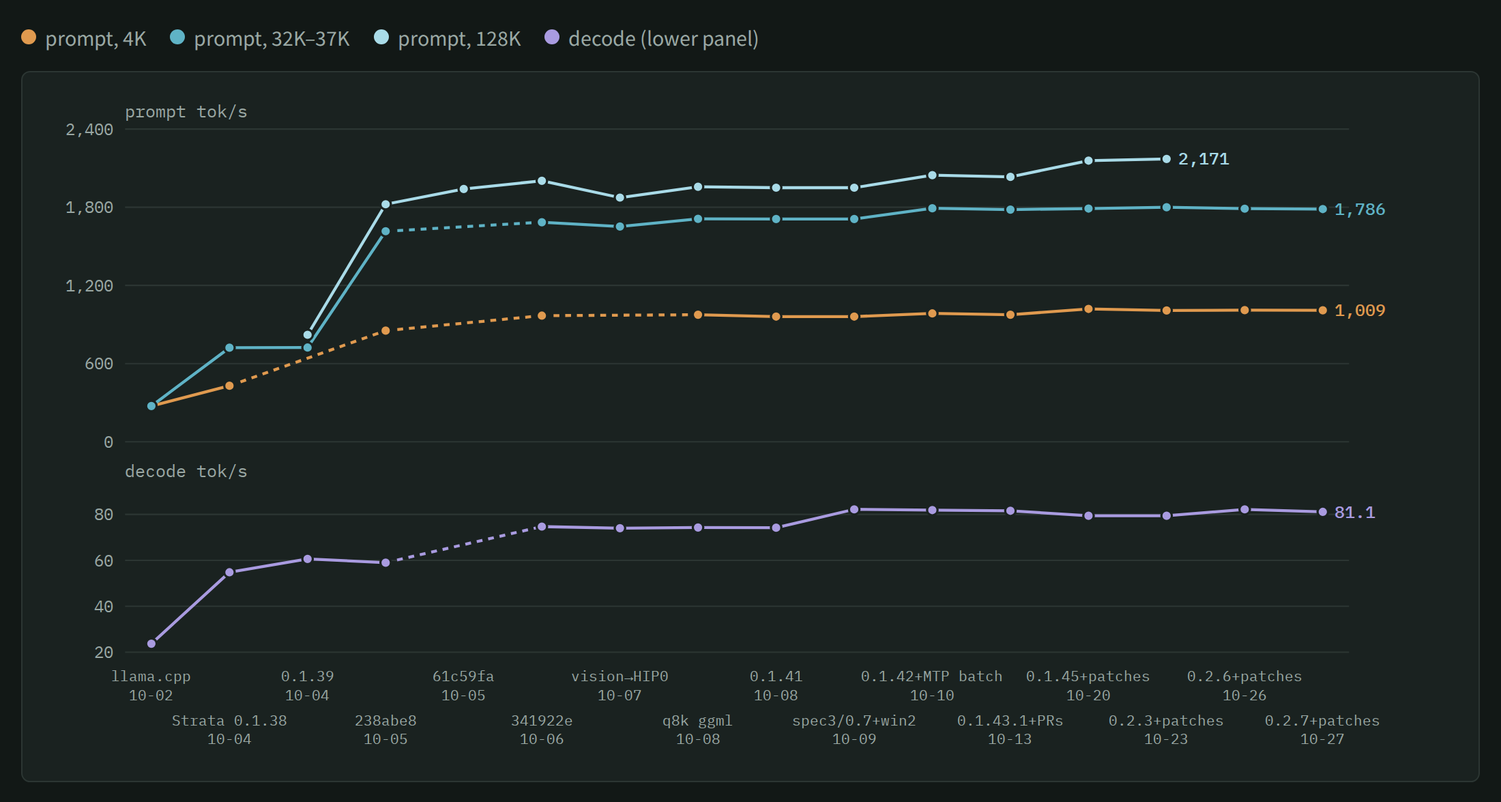
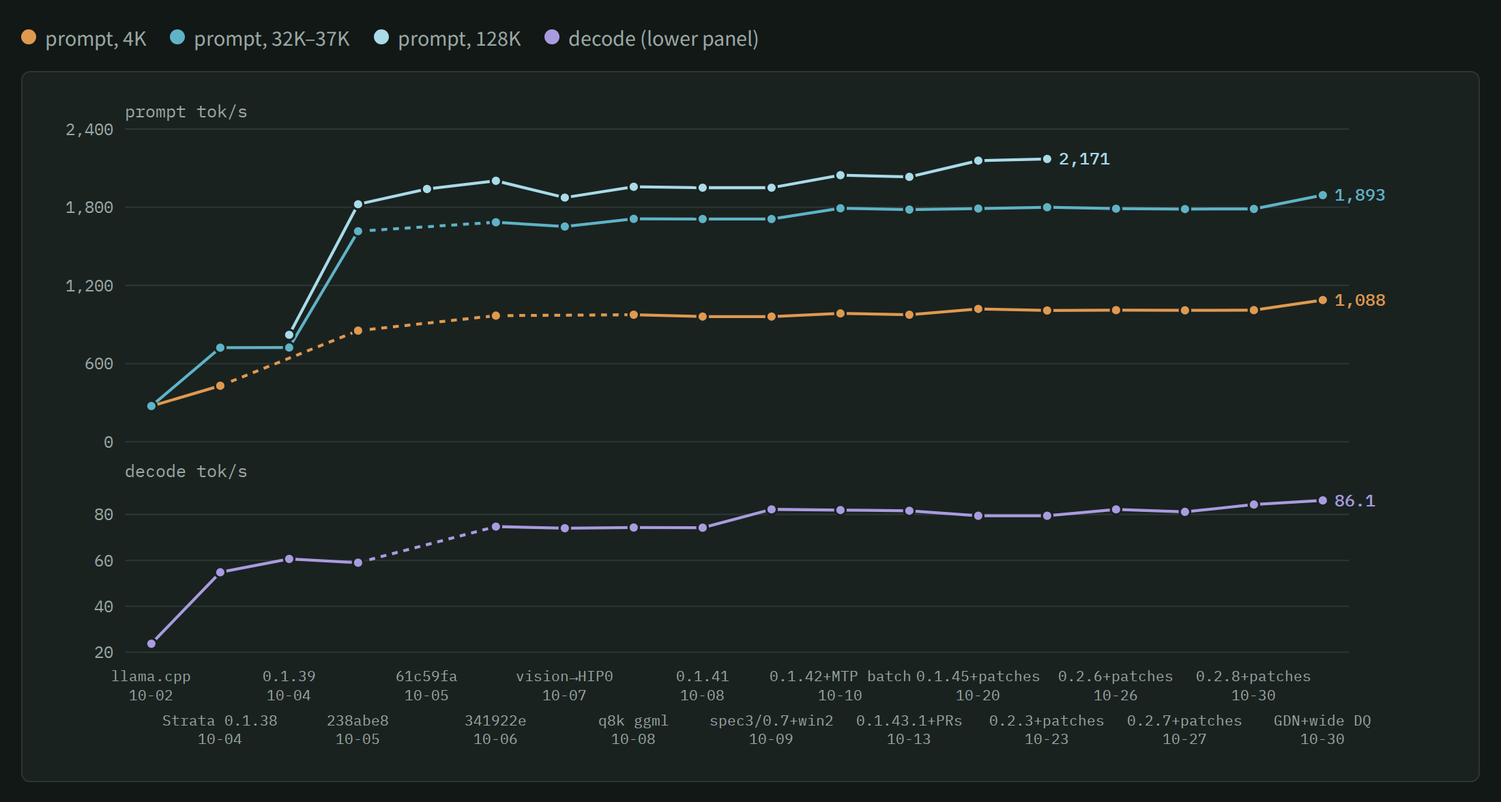
Now card, speed chart and timeline to 11-02 (0.2.8, GDN group + wide dequant, 0.2.9, slot copy, kernel -42)
- Now card: Strata 0.2.9 production; prompt 1,088 / 1,893 (benchmark.py, E623) and
  standard benchmark 1,136 / 1,793 (E642); decode 80 from real text, slot copy +28%
  for an inserted request (E637); production configuration details brought up to date.
- Speed chart: points for 0.2.8 (E620) and the GDN group + DEQUANT_WIDE (E623); the note
  says the higher decode points are run-to-run swing at pipeline-windows 2 and that
  0.2.9 has no point of its own (output-identical to 0.2.8, +-0.3%, E631).
- Timeline (index.html, data/timeline-steps.*.csv, docs/timeline*.md): nine steps
  10-30 -> 11-02; the docs tables also gain 10-26 -> 10-29; closed directions updated
  (E482's PCIe share overturned by E634/E636, 0.2.8's switches).

diff --git a/index.html b/index.html
@@ -98,7 +98,7 @@ code{font-family:var(--f-data);font-size:.92em}
 <body>
 <div class="layout">
 <aside>
-  <div class="eyebrow">AiBox · 2× RX 6900 XT · Qwen3.8-Flash-Next IQ3_S · 09-30 → 10-24</div>
+  <div class="eyebrow">AiBox · 2× RX 6900 XT · Qwen3.8-Flash-Next IQ3_S · 09-30 → 11-02</div>
   <h1><span class="zh">Flash-Next 调优时间线</span><span class="en">Flash-Next tuning timeline</span></h1>
   <p class="lede"><span class="zh">同一个模型（IQ3_S）在这台机器上从 llama.cpp 换到 Strata，再一步步叠加改动。每一步写了当时为什么这么做和实测效果；虚线框是试过但没采用的方向。速度一律指双卡 layer split。</span><span class="en">One model (IQ3_S) on one machine, from llama.cpp to Strata, one change at a time. Each step says why it was tried and what it measured; dashed cards are directions tried and not adopted. Speeds are the two-card layer split unless noted.</span></p>
   <div class="toggle" role="group" aria-label="Language / 语言"><button type="button" id="lang-zh" lang="zh-CN">中文</button><button type="button" id="lang-en" lang="en">English</button></div>
@@ -116,15 +116,15 @@ code{font-family:var(--f-data);font-size:.92em}
 <main>
 <section id="now">
   <h2><span class="zh">现在</span><span class="en">Now</span> · 2× RX 6900 XT · Qwen3.8-Flash-Next IQ3_S</h2>
-  <p class="now-sub"><span class="zh">Strata 0.2.7 + 补丁 + 分块下限 #3821 + 稠密权重裁剪 · 2026-10-27 / 10-29 实测（E596、E617；数字在裁剪前，裁剪另加读 2K +8%、解码 +1~3%，E618）</span><span class="en">Strata 0.2.7 + patches + chunk floor #3821 + dense-weight trim · measured 2026-10-27 / 10-29 (E596, E617; numbers before the trim, which adds 2K prompt +8% and decode +1-3%, E618)</span></p>
+  <p class="now-sub"><span class="zh">Strata 0.2.9 + 补丁 + 分块下限 #3821 + 稠密权重裁剪 + GDN 组 / 宽解压 + 槽复制 · 2026-10-30 实测（E623，0.2.8 同配置；0.2.9 逐字相同、±0.3%，E631；内核 7.0.0-42 门 12/12，E642）</span><span class="en">Strata 0.2.9 + patches + chunk floor #3821 + dense-weight trim + GDN group / wide dequant + slot copy · measured 2026-10-30 (E623, same config on 0.2.8; 0.2.9 is output-identical and ±0.3%, E631; kernel 7.0.0-42 gate 12/12, E642)</span></p>
   <div class="now2">
     <div class="grp"><span class="lbl"><span class="zh">读 prompt tok/s</span><span class="en">prompt tok/s</span></span>
-      <div class="row"><div><b>1,009</b><small>4K</small></div><div><b>1,342</b><small>8K</small></div><div><b>1,589</b><small>16K</small></div><div><b>1,786</b><small>32K</small></div></div></div>
+      <div class="row"><div><b>1,088</b><small>4K</small></div><div><b>1,893</b><small>32K</small></div><div><b>1,136</b><small><span class="zh">4K 标准基准</span><span class="en">4K standard</span></small></div><div><b>1,793</b><small><span class="zh">16K 标准基准</span><span class="en">16K standard</span></small></div></div></div>
     <div class="grp"><span class="lbl"><span class="zh">解码 tok/s</span><span class="en">decode tok/s</span></span>
-      <div class="row"><div><b>81</b><small><span class="zh">4K / 32K 为 78–85；128K 仍是 0.2.3 时的 2,171 读 / 78 解码</span><span class="en">78–85 at 4K / 32K; 128K last measured on 0.2.3: 2,171 prompt / 78 decode</span></small></div></div></div>
+      <div class="row"><div><b>80</b><small><span class="zh">真实文本 79–80；两路并发时长请求被插队 +28%（槽复制，E637）</span><span class="en">real text 79–80; a long request with a short one inserted +28% (slot copy, E637)</span></small></div></div></div>
   </div>
-  <p class="foot now-src"><span class="zh">benchmark.py 合成负载，不开图片编码器，两轮 · 构建、开关与补丁见 docs/linux-dual-6900xt</span><span class="en">benchmark.py synthetic load, no vision encoder, two rounds · build, switches and patches: docs/linux-dual-6900xt</span></p>
-  <details class="now-more"><summary><span class="zh">生产配置细节</span><span class="en">Production configuration</span></summary><p class="foot"><span class="zh">生产（10-27 18:40 起 0.2.7，10-29 07:1x 起 027f：加 #3821 分块下限）= Strata 上游 0.2.7（#2985 流水 MTP 已在上游，#4121）+ 自有补丁：单路保留 pipeline-windows（STRATA_PW_WITH_BATCH=1，PR #3095）、HIP 上的 SIMT=2 打分（PR #3073）、--batch 下的 CPU 分担（PR #3382）、RDNA2 读 prompt 注意力（PR #3381）、rocBLAS 解的本机缓存 + STRATA_PREFILL_STREAM_MIN=2048 + 自改的 llama.cpp ggml；配置钉 --conversation-cache-mib 0（0.2.3 起默认开的会话缓存让单会话读 prompt 慢 1.4–3%）；--prefill-pipe 1600 + STRATA_PREFILL_PIPE_FLOOR=4096（上游 #3821，10-29 07:1x）让两卡流水把 7K–20K 切成每块 ≥4,096 的几块（对不设：8K +16%，对 3072：7K +8%、12K +3%、16K +5%）；10-29 13:01 起 layer_split 写死 27 并开 STRATA_STAGE_TRIM=1，每张卡只留自己那段层的稠密权重，专家缓存 5,320 / 3,275 → 6,175 / 4,265 槽（读 2K +8%、解码 +1~3%，E618/E619）。两路并发（parallel 2）；两卡降压 −81 mV @245 W（10-21 起）。</span><span class="en">Production (0.2.7 since 10-27 18:40, the #3821 chunk floor since 10-29 07:1x) = Strata upstream 0.2.7 (the #2985 pipelined MTP is upstream now, #4121) + own patches: the solo path keeps --pipeline-windows (STRATA_PW_WITH_BATCH=1, PR #3095), the SIMT=2 scorer on HIP (PR #3073), the CPU share beside --batch (PR #3382), the RDNA2 prompt attention (PR #3381), a per-device rocBLAS solution cache + STRATA_PREFILL_STREAM_MIN=2048 + a modified llama.cpp ggml; the config pins --conversation-cache-mib 0 (the conversation cache, on by default since 0.2.3, reads a single session's prompts 1.4–3% slower); --prefill-pipe 1600 with STRATA_PREFILL_PIPE_FLOOR=4096 (upstream #3821, since 10-29 07:1x) makes the two-card pipeline cut 7K–20K prompts into chunks of at least 4,096 (against off: 8K +16%; against 3072: 7K +8%, 12K +3%, 16K +5%); since 10-29 13:01 layer_split is pinned to 27 with STRATA_STAGE_TRIM=1, so each card keeps only its own layers' dense weights and the expert caches grow 5,320 / 3,275 -> 6,175 / 4,265 slots (2K prompt +8%, decode +1-3%, E618/E619). Two parallel slots; both cards undervolted −81 mV at 245 W (since 10-21).</span></p></details>
+  <p class="foot now-src"><span class="zh">读 prompt：benchmark.py 合成负载，不开图片编码器，两轮（E623）；标准基准 = strata bench 12 题门（E642，内核 -42）；解码：E618 真实文本 11 条中位（合成解码在 pipeline-windows 2 下跨运行波动 ±6%）· 构建、开关与补丁见 docs/linux-dual-6900xt</span><span class="en">prompt: benchmark.py synthetic load, no vision encoder, two rounds (E623); standard = the strata bench 12-question gate (E642, kernel -42); decode: median of the 11 E618 real-text requests (synthetic decode swings ±6% between runs at pipeline-windows 2) · build, switches and patches: docs/linux-dual-6900xt</span></p>
+  <details class="now-more"><summary><span class="zh">生产配置细节</span><span class="en">Production configuration</span></summary><p class="foot"><span class="zh">生产（10-31 16:0x 起 0.2.9，strata-029f-05d98279）= Strata 上游 0.2.9 + #3821 分块下限 + 自有补丁：单路保留 pipeline-windows（STRATA_PW_WITH_BATCH=1，PR #3095）、HIP 上的 SIMT=2 打分（PR #3073）、--batch 下的 CPU 分担（PR #3382）、RDNA2 读 prompt 注意力（PR #3381）、rocBLAS 解的本机缓存 + STRATA_PREFILL_STREAM_MIN=2048 + 自改的 llama.cpp ggml；配置钉 --conversation-cache-mib 0；--prefill-pipe 1600 + STRATA_PREFILL_PIPE_FLOOR=4096（10-29）；layer_split 写死 27 + STRATA_STAGE_TRIM=1（10-29 13:01）；GDN 组 STRATA_GDN_HEAD=1 / GDN_PP=2 / GDN_CONVL2=1 / GDN_NOY=1 + STRATA_DEQUANT_WIDE=1（10-30 22:5x，读 prompt +4~12%，逐位相同，E621–E625）；槽复制 STRATA_SLOT_COPY_DIRECT=1 / SLOT_COPY_BATCHSYNC=1 / SLOT_CKPT_MOVE=1（11-02 03:5x，E637–E639）。两路并发（parallel 2）；两卡降压 −81 mV @245 W（10-21 起）；内核 7.0.0-42（11-02）。</span><span class="en">Production (0.2.9 since 10-31 16:0x, strata-029f-05d98279) = Strata upstream 0.2.9 + the #3821 chunk floor + own patches: the solo path keeps --pipeline-windows (STRATA_PW_WITH_BATCH=1, PR #3095), the SIMT=2 scorer on HIP (PR #3073), the CPU share beside --batch (PR #3382), the RDNA2 prompt attention (PR #3381), a per-device rocBLAS solution cache + STRATA_PREFILL_STREAM_MIN=2048 + a modified llama.cpp ggml; the config pins --conversation-cache-mib 0; --prefill-pipe 1600 with STRATA_PREFILL_PIPE_FLOOR=4096 (10-29); layer_split pinned to 27 with STRATA_STAGE_TRIM=1 (10-29 13:01); the GDN group STRATA_GDN_HEAD=1 / GDN_PP=2 / GDN_CONVL2=1 / GDN_NOY=1 with STRATA_DEQUANT_WIDE=1 (10-30 22:5x, prompt +4-12%, bit-identical, E621-E625); slot copy STRATA_SLOT_COPY_DIRECT=1 / SLOT_COPY_BATCHSYNC=1 / SLOT_CKPT_MOVE=1 (11-02 03:5x, E637-E639). Two parallel slots; both cards undervolted −81 mV at 245 W (since 10-21); kernel 7.0.0-42 (11-02).</span></p></details>
 </section>
 
 <section id="speed-sec">
@@ -136,7 +136,7 @@ code{font-family:var(--f-data);font-size:.92em}
     <span><i class="dot" style="background:var(--l-decode)"></i><span class="zh">解码（下图）</span><span class="en">decode (lower panel)</span></span>
   </div>
   <div class="panel"><div class="chart" id="speed"></div><p class="swipe"><span class="zh">← 图可以左右滑动 →</span><span class="en">← the chart scrolls sideways →</span></p>
-  <p class="foot"><span class="zh">把鼠标放在某一步上看那一步的全部数字。各点来自不同实验，条件不完全相同：4K 线的前两点是 5K prompt（E215），238abe8 / 341922e 的 4K 来自两份社区报告的 split 臂；spec3/0.7+win2 那点的 prompt 三档取 E383/E387 的生产臂（解码配置不改 prompt，E388 ±0.7%）；llama.cpp 和 132a522 是 37K（E215）；0.1.39 和 238abe8 来自 10-05 社区报告，当时自适应关着；61c59fa 只测了 128K（E300）；341922e 来自 E342；10-07 起的点来自 E362 / E380 / E382 / E383 的 P 臂（生产配置、图片编码器在 HIP0）；0.1.42+MTP batch 那点是 E415（社区报告 #1927 的 iq3s-split-prs 臂，无图片编码器）；0.1.43.1+PRs 那点是社区报告 #2237 的 prs 臂（不是生产二进制）；0.1.45+补丁 是 E504，0.2.3+补丁 是 E533（同 E415 的负载与配置，无图片编码器）。虚线跨过没测这个指标的步骤。</span><span class="en">Hover a step for all its numbers. Points come from different experiments under slightly different conditions: the first two 4K points are 5K prompts (E215); the 4K of 238abe8 / 341922e comes from the split arms of two community reports; the spec3/0.7+win2 prompt numbers are the production arms of E383/E387 (the decode config does not change prompts, E388 ±0.7%); llama.cpp and 132a522 are 37K (E215); 0.1.39 and 238abe8 come from the 10-05 community report, adaptive swaps off at the time; 61c59fa measured 128K only (E300); 341922e is E342; from 10-07 the points are the P arms of E362 / E380 / E382 / E383 (production config, picture encoder on HIP0); 0.1.42+MTP batch is E415 (the iq3s-split-prs arm of community report #1927, no encoder); 0.1.43.1+PRs is the prs arm of community report #2237 (not the production binary); 0.1.45+patches is E504 and 0.2.3+patches E533 (the E415 load and config, no encoder). A dashed segment bridges steps where that metric was not measured.</span></p></div>
+  <p class="foot"><span class="zh">把鼠标放在某一步上看那一步的全部数字。各点来自不同实验，条件不完全相同：4K 线的前两点是 5K prompt（E215），238abe8 / 341922e 的 4K 来自两份社区报告的 split 臂；spec3/0.7+win2 那点的 prompt 三档取 E383/E387 的生产臂（解码配置不改 prompt，E388 ±0.7%）；llama.cpp 和 132a522 是 37K（E215）；0.1.39 和 238abe8 来自 10-05 社区报告，当时自适应关着；61c59fa 只测了 128K（E300）；341922e 来自 E342；10-07 起的点来自 E362 / E380 / E382 / E383 的 P 臂（生产配置、图片编码器在 HIP0）；0.1.42+MTP batch 那点是 E415（社区报告 #1927 的 iq3s-split-prs 臂，无图片编码器）；0.1.43.1+PRs 那点是社区报告 #2237 的 prs 臂（不是生产二进制）；0.1.45+补丁 是 E504，0.2.3+补丁 是 E533（同 E415 的负载与配置，无图片编码器）；0.2.6 / 0.2.7 / 0.2.8 / GDN+宽解压 是 E587 / E596 / E620 / E623 的新臂（parallel 1，无图片编码器，生产 json）。最后两点的解码 84 / 86 比 0.2.7 的 81 高，是 pipeline-windows 2 下合成负载的跨运行波动（E620 同场 027f 对照 82.8；真实文本解码各版都是 79–80），不是提速。0.2.9（10-31）没有这一口径的数：确定性 A/B 与 0.2.8 逐字相同、±0.3%（E631）；槽复制（11-02）只在两路并发时起作用。虚线跨过没测这个指标的步骤。</span><span class="en">Hover a step for all its numbers. Points come from different experiments under slightly different conditions: the first two 4K points are 5K prompts (E215); the 4K of 238abe8 / 341922e comes from the split arms of two community reports; the spec3/0.7+win2 prompt numbers are the production arms of E383/E387 (the decode config does not change prompts, E388 ±0.7%); llama.cpp and 132a522 are 37K (E215); 0.1.39 and 238abe8 come from the 10-05 community report, adaptive swaps off at the time; 61c59fa measured 128K only (E300); 341922e is E342; from 10-07 the points are the P arms of E362 / E380 / E382 / E383 (production config, picture encoder on HIP0); 0.1.42+MTP batch is E415 (the iq3s-split-prs arm of community report #1927, no encoder); 0.1.43.1+PRs is the prs arm of community report #2237 (not the production binary); 0.1.45+patches is E504 and 0.2.3+patches E533 (the E415 load and config, no encoder); 0.2.6 / 0.2.7 / 0.2.8 / GDN+wide dequant are the new arms of E587 / E596 / E620 / E623 (parallel 1, no encoder, production json). The last two decode points (84 / 86 against 0.2.7's 81) are run-to-run swing of the synthetic load at pipeline-windows 2 (the same-session 027f control in E620 read 82.8; real-text decode is 79-80 on every version), not a speed-up. 0.2.9 (10-31) has no number on this protocol: its deterministic A/B against 0.2.8 is output-identical and ±0.3% (E631); slot copy (11-02) only acts on two concurrent requests. A dashed segment bridges steps where that metric was not measured.</span></p></div>
 </section>
 
 <section id="modes-sec">
@@ -210,7 +210,8 @@ code{font-family:var(--f-data);font-size:.92em}
     <li><b>上游自己测过对小卡无益：</b>GDN 分块（需 128 SM）、Foresight 交换槽（解码变慢）、STAGE_PIN（IQ3_S 损坏，改回 opt-in）。</li>
     <li><b>0.1.42 的 opt-in（E413）和把 llama.cpp MMQ 补丁带进 Strata（E414）：</b>只有 <code>STRATA_SPLIT_MTP_BATCH=1</code> 过线；TAIL_SKIP / ROUTE_RESIDENT / aux-cpus 在噪声内或更慢，RESIDENT_SORT / PF_FUSED 本机不触发；ggml 补丁在 Strata 的专家 GEMM 上 ±1%。</li>
     <li><b>prompt 专家段（E450–E452）：</b>llama.cpp 的 MMQ 在真实形状上 28–34 TOPS 封顶；换 tile 宽度不省时；原地读不搬运只 +0.5%。<b>上游 0.1.43.1</b>（E432）对本机无收益。</li>
-    <li><b>还有空间的（10-20）：</b>PCIe 拓扑不换——"x16+x4 大 prompt 约 1.5×"在 10-15 推翻：Strata 上长 prompt 等 PCIe 只占 0.2–0.7%，x8≈x16；&lt;2K 的短 prompt 才有 43–54% 在等（E482，已由 STREAM_MIN 与 CPU 分担缓解）。解码：专家缓存命中 85% 已高于全知静态集，预测换入没有空间，杠杆是每窗换入量（E499，未测）。</li>
+    <li><b>0.2.8 的新开关（E627/E628）：</b>读码 161 个、7 个对 HIP 生效；合并臂解码 +1.0~1.2% 但门 3/3 停转，SCORES_HALVE / EXPDEC / GU_SWIGLU 更慢。0.2.9 的 GR_R2 在本机惰性（E631）。</li>
+    <li><b>还有空间的（10-20）：</b>PCIe 拓扑不换——"x16+x4 大 prompt 约 1.5×"在 10-15 推翻：Strata 上长 prompt 等 PCIe 只占 0.2–0.7%，x8≈x16；&lt;2K 的短 prompt 在 0.2.9 上也只等 6–13%（E634，推翻 E482 的 43–54%），合并拷贝省 ≤1%，收集内核只占 4.4–5.6%（E636）。解码：专家缓存命中 85% 已高于全知静态集，预测换入没有空间，杠杆是每窗换入量（E499，未测）。</li>
   </ul>
   <ul class="closed en">
     <li><b>Decode configuration knobs, each alone, are at their limit:</b> shrinking <code>--kv-resident</code> (E382, expert slots only +0.7%), <code>--pipeline-windows 2</code> alone (E384, +1–6%), a 16-point <code>--spec</code> × <code>--spec-min-p</code> grid (E385, 4/0.5 is the peak at pipeline-windows 1). <b>The combination works</b>: spec 3 / min-p 0.7 + pipeline-windows 2 decodes +10–16% (E387, three confirmation rounds, production since 10-09).</li>
@@ -219,7 +220,8 @@ code{font-family:var(--f-data);font-size:.92em}
     <li><b>Measured by upstream as no help on small cards:</b> chunked GDN (needs 128 SMs), Foresight swap slots (slower decode), STAGE_PIN (broke IQ3_S, back to opt-in).</li>
     <li><b>The 0.1.42 opt-ins (E413) and the llama.cpp MMQ patches inside Strata (E414):</b> only <code>STRATA_SPLIT_MTP_BATCH=1</code> passed; TAIL_SKIP / ROUTE_RESIDENT / aux-cpus within noise or slower, RESIDENT_SORT / PF_FUSED never trigger here; the ggml patches ±1% on Strata's expert GEMMs.</li>
     <li><b>Prompt experts (E450–E452):</b> llama.cpp's MMQ tops out at 28–34 TOPS on the real shapes; another tile width saves nothing; reading in place instead of gathering only +0.5%. <b>Upstream 0.1.43.1</b> (E432) brought nothing here.</li>
-    <li><b>Where room is left (10-20):</b> keep the PCIe topology — "x16+x4 reads big prompts ~1.5× faster" was overturned on 10-15: on Strata a long prompt waits on PCIe only 0.2–0.7% of the time, x8 ≈ x16; prompts under 2K wait 43–54% (E482, eased by STREAM_MIN and the CPU share). Decode: the expert cache already hits 85%, above an all-knowing static set; prediction has no room, the lever is swaps per window (E499, untested).</li>
+    <li><b>0.2.8's new switches (E627/E628):</b> 161 read in the source, 7 apply to HIP; the combined arm decodes +1.0~1.2% but stalled the gate 3 times out of 3, and SCORES_HALVE / EXPDEC / GU_SWIGLU are slower. 0.2.9's GR_R2 is inert here (E631).</li>
+    <li><b>Where room is left (10-20):</b> keep the PCIe topology — "x16+x4 reads big prompts ~1.5× faster" was overturned on 10-15: on Strata a long prompt waits on PCIe only 0.2–0.7% of the time, x8 ≈ x16; prompts under 2K wait only 6–13% on 0.2.9 too (E634, overturning E482's 43–54%), merging the copies saves ≤1% and the gather kernel is 4.4–5.6% (E636). Decode: the expert cache already hits 85%, above an all-knowing static set; prediction has no room, the lever is swaps per window (E499, untested).</li>
   </ul>
 </section>
 
@@ -252,6 +254,8 @@ const M=[
   {k:['0.2.3+补丁\n10-23','0.2.3+patches\n10-23'],p4:1008,p32:1800,p128:2171,d:79.4},
   {k:['0.2.6+补丁\n10-26','0.2.6+patches\n10-26'],p4:1010,p32:1789,p128:null,d:82.2},
   {k:['0.2.7+补丁\n10-27','0.2.7+patches\n10-27'],p4:1009,p32:1786,p128:null,d:81.1},
+  {k:['0.2.8+补丁\n10-30','0.2.8+patches\n10-30'],p4:1010,p32:1787,p128:null,d:84.3},
+  {k:['GDN+宽解压\n10-30','GDN+wide DQ\n10-30'],p4:1088,p32:1893,p128:null,d:86.1},
 ];
 const SPEED_SER=[['p4','var(--l-stable)',['4K','4K']],['p32','var(--l-prompt)',['32K–37K','32K–37K']],['p128','var(--l-engine)',['128K','128K']],['d','var(--l-decode)',['解码','decode']]];
 
@@ -345,7 +349,7 @@ function drawWin(){
   box.append(svg);
 }
 
-const LANES={engine:[['引擎选择','engine'],'var(--l-engine)'],prompt:[['读 prompt','prompt'],'var(--l-prompt)'],decode:[['解码','decode'],'var(--l-decode)'],stable:[['稳定性 #884','stability #884'],'var(--l-stable)'],drop:[['试过没采用','tried, not adopted'],'var(--l-drop)']};
+const LANES={engine:[['引擎选择','engine'],'var(--l-engine)'],prompt:[['读 prompt','prompt'],'var(--l-prompt)'],decode:[['解码','decode'],'var(--l-decode)'],stable:[['稳定性','stability'],'var(--l-stable)'],drop:[['试过没采用','tried, not adopted'],'var(--l-drop)']};
 // [day, time, lane, [title zh, en], [why zh, en], [[[effect zh, en], up|down|flat]...]]
 const S=[
  ["09-30", "16:44", "engine", ["llama.cpp 换 IQ3_S + 112 槽专家缓存", "llama.cpp switched to IQ3_S + a 112-slot expert cache"], ["同样的显存装下更多专家，缓存命中更高", "more experts fit in the same VRAM, so the cache hits more often"], [[["20K：pp 274、tg 22.7", "20K: pp 274, tg 22.7"], "up"], [["上线时 UD 版 224 / 17.0", "the UD build at launch: 224 / 17.0"], "flat"]]],
@@ -414,7 +418,16 @@ const S=[
  ["10-29", "05:06", "prompt", ["--prefill-pipe 3072 上生产（E613）", "--prefill-pipe 3072 in production (E613)"], ["两卡分层的读 prompt 是两段流水；把 8K 切成 2×4096、12K 切成 2×6144，第二张卡少空等；1536 也切 16K 但把 4K 切坏", "on a layer split the prompt is a two-stage pipeline; 8K becomes 2×4096 and 12K 2×6144 so the second card waits less; 1536 also splits 16K but breaks 4K"], [[["8K +16%、12K +8%（合成与真实文本同向）", "8K +16%, 12K +8% (synthetic and real text agree)"], "up"], [["4K / 16K / 32K 不动", "4K / 16K / 32K unchanged"], "flat"]]],
  ["10-29", "05:45", "prompt", ["一张卡上的 SH_STREAM 与 KVA（E615）", "SH_STREAM and KVA on one card (E615)"], ["给单卡用户的数据（社区 #4475）；KVA 只在单卡无 batch 槽时生效，本机生产是两卡分层用不上", "data for one-card users (community #4475); KVA applies to one card without batch slots, so this box's layer split cannot use it"], [[["SH_STREAM 单卡解码 +5~7%", "SH_STREAM: one-card decode +5–7%"], "up"], [["KVA：16K +10%、32K +16% 读 prompt，解码 −2~3.5%，32K 针 3/3；≤8K 不变", "KVA: prompt +10% / +16% at 16K / 32K, decode −2 to −3.5%, 32K needle 3/3; ≤8K unchanged"], "flat"]]],
  ["10-29", "07:1x", "prompt", ["分块下限上生产（上游 #3821，E617）", "chunk floor in production (upstream #3821, E617)"], ["成本式里每块开销是常数，单个 R 做不到既切 12K/16K 又不把 4K 切坏；#3821 的 STRATA_PREFILL_PIPE_FLOOR=4096 排除两块都小的分法，配 --prefill-pipe 1600", "the cost formula charges every chunk the same, so no single R splits 12K/16K without breaking 4K; #3821's STRATA_PREFILL_PIPE_FLOOR=4096 rules out plans whose chunks are all small, used with --prefill-pipe 1600"], [[["对 3072：7K +8%、12K +3%、14K +4%、16K +5%、20K +2%（真实文本同向）", "against 3072: 7K +8%, 12K +3%, 14K +4%, 16K +5%, 20K +2% (real text agrees)"], "up"], [["4K / 8K 不变", "4K / 8K unchanged"], "flat"]]],
- ["10-29", "13:01", "prompt", ["稠密权重裁剪上生产（STRATA_STAGE_TRIM=1、分点 27，E618/E619）", "dense-weight trim in production (STRATA_STAGE_TRIM=1, split 27, E618/E619)"], ["分层时每张卡原来装着全部 48 层的稠密权重；裁剪去掉本卡不跑的层（只在显式分点时两卡都裁，所以 json 写死 27，正是 auto 选的值），省下的显存给专家缓存：5,320 / 3,275 → 6,175 / 4,265 槽", "on a layer split each card held all 48 layers' dense weights; the trim drops the layers a card does not run (both cards only with an explicit split, so the json pins 27, the value auto picks) and the freed VRAM goes to the expert cache: 5,320 / 3,275 -> 6,175 / 4,265 slots"], [[["真实文本：读 2K +8%、续读 +1.5~2%、解码 +1.4~3%", "real text: 2K prompt +8%, follow-up +1.5-2%, decode +1.4-3%"], "up"], [["4K–32K 读持平；标准基准 12/12", "4K-32K prompt flat; standard benchmark 12/12"], "flat"]]]
+ ["10-29", "13:01", "prompt", ["稠密权重裁剪上生产（STRATA_STAGE_TRIM=1、分点 27，E618/E619）", "dense-weight trim in production (STRATA_STAGE_TRIM=1, split 27, E618/E619)"], ["分层时每张卡原来装着全部 48 层的稠密权重；裁剪去掉本卡不跑的层（只在显式分点时两卡都裁，所以 json 写死 27，正是 auto 选的值），省下的显存给专家缓存：5,320 / 3,275 → 6,175 / 4,265 槽", "on a layer split each card held all 48 layers' dense weights; the trim drops the layers a card does not run (both cards only with an explicit split, so the json pins 27, the value auto picks) and the freed VRAM goes to the expert cache: 5,320 / 3,275 -> 6,175 / 4,265 slots"], [[["真实文本：读 2K +8%、续读 +1.5~2%、解码 +1.4~3%", "real text: 2K prompt +8%, follow-up +1.5-2%, decode +1.4-3%"], "up"], [["4K–32K 读持平；标准基准 12/12", "4K-32K prompt flat; standard benchmark 12/12"], "flat"]]],
+ ["10-30", "12:1x", "engine", ["生产升 0.2.8（strata-028f-9f207cc2，E620）", "production → 0.2.8 (strata-028f-9f207cc2, E620)"], ["合并 v0.2.8 再挑 #3821；为修复而升：停放的 --batch 槽保留共享前缀、工具调用容错、新引擎等旧引擎还内存", "v0.2.8 merged with #3821 picked again; taken for the fixes: parked --batch slots keep the shared prefix, tool-call tolerance, a new engine waits for the old one's memory"], [[["读 prompt −0.3~1.5%、解码持平（都在 3% 门槛内），12 题门 12/12", "prompt −0.3 to −1.5%, decode flat (both inside the 3% bar), 12-question gate 12/12"], "flat"]]],
+ ["10-30", "22:5x", "prompt", ["GDN 组 + DEQUANT_WIDE 上生产（E621–E625）", "GDN group + DEQUANT_WIDE in production (E621–E625)"], ["先量瓶颈：GDN 递推占读 prompt 6.6%；K-quant 稠密权重先解压成 FP16，Q6_K / IQ4_XS 比 Q4_K 慢 20–30×，占 2K 块的 ~11%", "bottleneck first: the GDN recurrence is 6.6% of a prompt; K-quant dense weights are unpacked to FP16 first, Q6_K / IQ4_XS 20–30× slower than Q4_K, ~11% of a 2K chunk"], [[["GDN 组（quad2c 两步式，寄存器 196 → 142）：读 +2.3~3.8%，逐位相同", "GDN group (two-step quad2c, registers 196 → 142): prompt +2.3~3.8%, bit-identical"], "up"], [["宽解压：≤1.6K +8~12%、4K–16K +4~5%、32K +3%，逐位相同；解码不变", "wide dequant: ≤1.6K +8~12%, 4K–16K +4~5%, 32K +3%, bit-identical; decode unchanged"], "up"]]],
+ ["10-31", "03:4x", "drop", ["0.2.8 的新开关（E627/E628）", "0.2.8's new switches (E627/E628)"], ["读码 161 个，7 个对 HIP 生效，逐个确定性 A/B", "161 read in the source, 7 apply to HIP, deterministic A/B one at a time"], [[["MERGE_V2 + FUSE_HITS + IQ_STAGE_TABLES + PLE_COMPACT/COPY_STREAM 合起来解码 +1.0~1.2%，但门 3/3 次停转，不上", "MERGE_V2 + FUSE_HITS + IQ_STAGE_TABLES + PLE_COMPACT/COPY_STREAM together decode +1.0~1.2%, but stalled the gate 3 times out of 3; not taken"], "down"], [["SCORES_HALVE（改 32K 文本、4K 读 −3.8%）、EXPDEC（−1~3%）、GU_SWIGLU 更慢", "SCORES_HALVE (changes 32K text, 4K prompt −3.8%), EXPDEC (−1~3%), GU_SWIGLU slower"], "down"]]],
+ ["10-31", "16:0x", "engine", ["生产升 0.2.9（strata-029f-05d98279，E631）", "production → 0.2.9 (strata-029f-05d98279, E631)"], ["合并 v0.2.9；它的新默认 STRATA_GR_R2 给 5–8 token 验证窗口换精确 T 内核", "v0.2.9 merged; its new default STRATA_GR_R2 gives 5–8-token verify windows an exact-T kernel"], [[["对 0.2.8 文本逐字相同、速度 ±0.3%；GR_R2 在本机惰性", "output identical to 0.2.8, speed ±0.3%; GR_R2 inert here"], "flat"], [["UD-Q4 槽换 029kq 并用自己的设置（分点 24、--prefill-pipe 3450，E626）：解码 +15~18%", "the UD-Q4 slot moves to 029kq with its own settings (split 24, --prefill-pipe 3450, E626): decode +15~18%"], "up"]]],
+ ["10-31", "16:1x", "stable", ["tool_calls 之后的偶发停转（上游 #267，E632/E633）", "a rare stall after tool_calls (upstream #267, E632/E633)"], ["协议请求是流式 + 采样 + 思考；贪心非流式重放复现不出", "the protocol's requests are streamed + sampled + thinking; greedy non-streamed replays never show it"], [[["跟在 tool_calls 回答后的请求约 1/500 停在 pipelined decode: verify；0.2.8 / 0.2.9 都有，未解决", "a request after a tool_calls answer hangs in pipelined decode: verify about 1 in 500; on 0.2.8 and 0.2.9, open"], "flat"], [["HSA_ENABLE_SDMA=0（治好了 DeepSeek 槽）在这里无效，还让读 prompt 慢 28–32%", "HSA_ENABLE_SDMA=0 (which cured the DeepSeek slot) does not help here and costs 28–32% prompt"], "down"]]],
+ ["11-01", "00:5x", "drop", ["短 prompt 等 PCIe 重测（E634/E636，推翻 E482）", "short prompts and PCIe re-measured (E634/E636, overturns E482)"], ["E482 说 <2K 的 prompt 有 43–54% 时间在等 PCIe；想把拷贝合并", "E482 had prompts under 2K waiting on PCIe 43–54% of the time; would merging the copies help?"], [[["0.2.9 上 100–2K 只等 6–13%（4K 0.8%），合并拷贝省 ≤1%", "on 0.2.9 a 100–2K prompt waits 6–13% (4K 0.8%); merging the copies saves ≤1%"], "down"], [["rocprofv3：收集内核只占 4.4–5.6%；引擎自计时的“19–23%”大多是它自己的事件撑出来的空档", "rocprofv3: the gather kernel is 4.4–5.6%; the engine timing's “19–23%” was mostly gaps its own events created"], "flat"]]],
+ ["11-01", "12:5x", "drop", ["reasoning_loop_recovery: recover（E640/E641）", "reasoning_loop_recovery: recover (E640/E641)"], ["一条 41K token 的真实请求在 abl 模型贪心 + xhigh 下 3/3 打转", "one real 41K-token request loops 3/3 on the abliterated model at greedy + xhigh"], [[["12.8K token 处截住，换低 effort 续写完成（重读 +31 s）：止住打转，不治答错", "caught at 12.8K tokens, finished on a low-effort continuation (+31 s re-read): stops the loop, does not fix the answer"], "flat"], [["正常模型同一请求不打转（3/3），未上生产", "the normal model does not loop on that request (3/3); not in production"], "flat"]]],
+ ["11-02", "03:3x", "stable", ["内核 7.0.0-38 → 7.0.0-42（E642）", "kernel 7.0.0-38 → 7.0.0-42 (E642)"], ["三个稳定版汇总，含 amdgpu / kfd 修复；升级后验证", "three stable roll-ups with amdgpu / kfd fixes; verified after the upgrade"], [[["逐 token 相同、草稿接受相同、读 +3~5%（部分是刚开机）、解码持平，门 12/12", "identical token for token, accepted drafts identical, prompt +3~5% (partly a fresh boot), decode flat, gate 12/12"], "flat"], [["-42 不再加载 simpledrm，GPU 从 card1/2 变 card0/1：按 cardN 找卡的脚本要改按 PCI 地址", "-42 no longer loads simpledrm, so the GPUs moved from card1/2 to card0/1: scripts that use cardN should go by PCI address"], "flat"]]],
+ ["11-02", "03:5x", "decode", ["槽复制三开关上生产（E637–E639）", "the slot-copy switches in production (E637–E639)"], ["两路并发时，插进来的请求要复制槽状态 135–550 ms，长请求的解码被拖住", "with two parallel slots an inserted request copied slot state for 135–550 ms and held up the long request's decode"], [[["SLOT_COPY_DIRECT + BATCHSYNC + SLOT_CKPT_MOVE：复制 → 4–88 ms；64K 长请求被插队时解码 +28%（53.1 → 67.9）", "SLOT_COPY_DIRECT + BATCHSYNC + SLOT_CKPT_MOVE: the copy → 4–88 ms; a 64K request with a short one inserted decodes +28% (53.1 → 67.9)"], "up"], [["单请求不走这条路径；门 12/12，640 条并发重放 0 停转", "one request alone does not use the path; gate 12/12, 640 replayed concurrent requests, 0 stalls"], "flat"]]]
 ];
 const on=new Set(Object.keys(LANES));
 // grouped bars: groups = [[zh,en]...]; series = [[[zh,en] name, colour, prompt[], decode[]]...]; panels = [[title zh/en, 'p'|'d', max, ticks]...]

diff --git a/docs/timeline.md b/docs/timeline.md
@@ -1,4 +1,4 @@
-# Timeline: llama.cpp to Strata on 2x RX 6900 XT (2026-09-21 → 10-24)
+# Timeline: llama.cpp to Strata on 2x RX 6900 XT (2026-09-21 → 11-02)
 
 [← README](../README.md) · [中文](timeline.zh-CN.md)
 
@@ -59,3 +59,19 @@
 | 10-22 18:47 | production → 0.2.2 merge (`strata-022-34cd8534`, E527) | KL 0.028 / 0.030 against 0.031, 7 of 8 chats bit-identical; speed flat |
 | 10-23 13:27 | production → 0.2.3 merge (`strata-023-b523b933`, E533) with `--conversation-cache-mib 0` | 0.2.3's default conversation cache read single-session prompts 3% / 1.4% slower; pinned off: 1,008 / 1,800 / 2,171, decode 75 / 79 / 78, equal to 0.2.2 |
 | 10-24 | one RX 6900 XT under Windows 11 ([Windows notes](windows-one-card.md)) | the official package with measured settings: 16K prompt 479 → 1,076, decode 28 → 42, 12/12; PRs [#4005](https://github.com/Niko1221/Strata/pull/4005), [#4006](https://github.com/Niko1221/Strata/pull/4006), report [#4012](https://github.com/Niko1221/Strata/pull/4012) |
+| 10-02 02:06 | llama.cpp's official MTP draft head + 137 slots: MTP drafting + more cache slots | 10–18% faster |
+| 10-26 18:4x | production → 0.2.6 (strata-026-5c720e8e, E587): v0.2.6 merged; patches, ggml and build options unchanged | prompt 1,010 / 1,789 (4K / 32K), decode 80–85, equal to 0.2.3 |
+| 10-27 18:40 | production → 0.2.7 (strata-027-9ca7fd21, E596): v0.2.7 merged (engine 0.1.52; its new Qwen defaults are off on HIP, and this box sets its switches explicitly) | prompt 1,009 / 1,786, decode 78–85, flat; 0.2.7's STRATA_ROUTE_PRIOR=1.5: decode +10% but it changes answers and failed the KL gate, not taken (E604) |
+| 10-29 05:06 | --prefill-pipe 3072 in production (E613): on a layer split the prompt is a two-stage pipeline; 8K becomes 2×4096 and 12K 2×6144 so the second card waits less; 1536 also splits 16K but breaks 4K | 8K +16%, 12K +8% (synthetic and real text agree); 4K / 16K / 32K unchanged |
+| 10-29 05:45 | SH_STREAM and KVA on one card (E615): data for one-card users (community #4475); KVA applies to one card without batch slots, so this box's layer split cannot use it | SH_STREAM: one-card decode +5–7%; KVA: prompt +10% / +16% at 16K / 32K, decode −2 to −3.5%, 32K needle 3/3; ≤8K unchanged |
+| 10-29 07:1x | chunk floor in production (upstream #3821, E617): the cost formula charges every chunk the same, so no single R splits 12K/16K without breaking 4K; #3821's STRATA_PREFILL_PIPE_FLOOR=4096 rules out plans whose chunks are all small, used with --prefill-pipe 1600 | against 3072: 7K +8%, 12K +3%, 14K +4%, 16K +5%, 20K +2% (real text agrees); 4K / 8K unchanged |
+| 10-29 13:01 | dense-weight trim in production (STRATA_STAGE_TRIM=1, split 27, E618/E619): on a layer split each card held all 48 layers' dense weights; the trim drops the layers a card does not run (both cards only with an explicit split, so the json pins 27, the value auto picks) and the freed VRAM goes to the expert cache: 5,320 / 3,275 -> 6,175 / 4,265 slots | real text: 2K prompt +8%, follow-up +1.5-2%, decode +1.4-3%; 4K-32K prompt flat; standard benchmark 12/12 |
+| 10-30 12:1x | production → 0.2.8 (strata-028f-9f207cc2, E620): v0.2.8 merged with #3821 picked again; taken for the fixes: parked --batch slots keep the shared prefix, tool-call tolerance, a new engine waits for the old one's memory | prompt −0.3 to −1.5%, decode flat (both inside the 3% bar), 12-question gate 12/12 |
+| 10-30 22:5x | GDN group + DEQUANT_WIDE in production (E621–E625): bottleneck first: the GDN recurrence is 6.6% of a prompt; K-quant dense weights are unpacked to FP16 first, Q6_K / IQ4_XS 20–30× slower than Q4_K, ~11% of a 2K chunk | GDN group (two-step quad2c, registers 196 → 142): prompt +2.3~3.8%, bit-identical; wide dequant: ≤1.6K +8~12%, 4K–16K +4~5%, 32K +3%, bit-identical; decode unchanged |
+| 10-31 03:4x | not adopted: 0.2.8's new switches (E627/E628): 161 read in the source, 7 apply to HIP, deterministic A/B one at a time | MERGE_V2 + FUSE_HITS + IQ_STAGE_TABLES + PLE_COMPACT/COPY_STREAM together decode +1.0~1.2%, but stalled the gate 3 times out of 3; not taken; SCORES_HALVE (changes 32K text, 4K prompt −3.8%), EXPDEC (−1~3%), GU_SWIGLU slower |
+| 10-31 16:0x | production → 0.2.9 (strata-029f-05d98279, E631): v0.2.9 merged; its new default STRATA_GR_R2 gives 5–8-token verify windows an exact-T kernel | output identical to 0.2.8, speed ±0.3%; GR_R2 inert here; the UD-Q4 slot moves to 029kq with its own settings (split 24, --prefill-pipe 3450, E626): decode +15~18% |
+| 10-31 16:1x | a rare stall after tool_calls (upstream #267, E632/E633): the protocol's requests are streamed + sampled + thinking; greedy non-streamed replays never show it | a request after a tool_calls answer hangs in pipelined decode: verify about 1 in 500; on 0.2.8 and 0.2.9, open; HSA_ENABLE_SDMA=0 (which cured the DeepSeek slot) does not help here and costs 28–32% prompt |
+| 11-01 00:5x | not adopted: short prompts and PCIe re-measured (E634/E636, overturns E482): E482 had prompts under 2K waiting on PCIe 43–54% of the time; would merging the copies help? | on 0.2.9 a 100–2K prompt waits 6–13% (4K 0.8%); merging the copies saves ≤1%; rocprofv3: the gather kernel is 4.4–5.6%; the engine timing's “19–23%” was mostly gaps its own events created |
+| 11-01 12:5x | not adopted: reasoning_loop_recovery: recover (E640/E641): one real 41K-token request loops 3/3 on the abliterated model at greedy + xhigh | caught at 12.8K tokens, finished on a low-effort continuation (+31 s re-read): stops the loop, does not fix the answer; the normal model does not loop on that request (3/3); not in production |
+| 11-02 03:3x | kernel 7.0.0-38 → 7.0.0-42 (E642): three stable roll-ups with amdgpu / kfd fixes; verified after the upgrade | identical token for token, accepted drafts identical, prompt +3~5% (partly a fresh boot), decode flat, gate 12/12; -42 no longer loads simpledrm, so the GPUs moved from card1/2 to card0/1: scripts that use cardN should go by PCI address |
+| 11-02 03:5x | the slot-copy switches in production (E637–E639): with two parallel slots an inserted request copied slot state for 135–550 ms and held up the long request's decode | SLOT_COPY_DIRECT + BATCHSYNC + SLOT_CKPT_MOVE: the copy → 4–88 ms; a 64K request with a short one inserted decodes +28% (53.1 → 67.9); one request alone does not use the path; gate 12/12, 640 replayed concurrent requests, 0 stalls |

diff --git a/docs/timeline.zh-CN.md b/docs/timeline.zh-CN.md
@@ -1,4 +1,4 @@
-# 时间线：2× RX 6900 XT 从 llama.cpp 到 Strata（2026-09-21 → 10-24）
+# 时间线：2× RX 6900 XT 从 llama.cpp 到 Strata（2026-09-21 → 11-02）
 
 [← README](../README.zh-CN.md) · [English](timeline.md)
 
@@ -59,3 +59,19 @@
 | 10-22 18:47 | 生产 → 0.2.2 合并（`strata-022-34cd8534`，E527） | KL 0.028 / 0.030 对 0.031，8 段里 7 段逐位相同；速度持平 |
 | 10-23 13:27 | 生产 → 0.2.3 合并（`strata-023-b523b933`，E533），钉 `--conversation-cache-mib 0` | 0.2.3 默认开的会话缓存让单会话读 prompt −3% / −1.4%；钉住后 1,008 / 1,800 / 2,171，解码 75 / 79 / 78，与 0.2.2 持平 |
 | 10-24 | 一张 RX 6900 XT 在 Windows 11 上（[Windows 笔记](windows-one-card.zh-CN.md)） | 官方包只改设置：16K 读 prompt 479 → 1,076、解码 28 → 42，12/12；PR [#4005](https://github.com/Niko1221/Strata/pull/4005)、[#4006](https://github.com/Niko1221/Strata/pull/4006)，报告 [#4012](https://github.com/Niko1221/Strata/pull/4012) |
+| 10-02 02:06 | llama.cpp 官方 MTP 草稿头 + 137 槽：MTP 草稿 + 更多缓存槽 | 快 10–18% |
+| 10-26 18:4x | 生产升 0.2.6（strata-026-5c720e8e，E587）：合并 v0.2.6；补丁、ggml、构建选项不变 | 读 prompt 1,010 / 1,789（4K / 32K），解码 80–85，与 0.2.3 持平 |
+| 10-27 18:40 | 生产升 0.2.7（strata-027-9ca7fd21，E596）：合并 v0.2.7（引擎 0.1.52，Qwen 新默认在 HIP 上全关，本机开关都显式写在配置里） | 读 prompt 1,009 / 1,786，解码 78–85，持平；0.2.7 的 STRATA_ROUTE_PRIOR=1.5 解码 +10% 但改答案、KL 门没过，不上（E604） |
+| 10-29 05:06 | --prefill-pipe 3072 上生产（E613）：两卡分层的读 prompt 是两段流水；把 8K 切成 2×4096、12K 切成 2×6144，第二张卡少空等；1536 也切 16K 但把 4K 切坏 | 8K +16%、12K +8%（合成与真实文本同向）；4K / 16K / 32K 不动 |
+| 10-29 05:45 | 一张卡上的 SH_STREAM 与 KVA（E615）：给单卡用户的数据（社区 #4475）；KVA 只在单卡无 batch 槽时生效，本机生产是两卡分层用不上 | SH_STREAM 单卡解码 +5~7%；KVA：16K +10%、32K +16% 读 prompt，解码 −2~3.5%，32K 针 3/3；≤8K 不变 |
+| 10-29 07:1x | 分块下限上生产（上游 #3821，E617）：成本式里每块开销是常数，单个 R 做不到既切 12K/16K 又不把 4K 切坏；#3821 的 STRATA_PREFILL_PIPE_FLOOR=4096 排除两块都小的分法，配 --prefill-pipe 1600 | 对 3072：7K +8%、12K +3%、14K +4%、16K +5%、20K +2%（真实文本同向）；4K / 8K 不变 |
+| 10-29 13:01 | 稠密权重裁剪上生产（STRATA_STAGE_TRIM=1、分点 27，E618/E619）：分层时每张卡原来装着全部 48 层的稠密权重；裁剪去掉本卡不跑的层（只在显式分点时两卡都裁，所以 json 写死 27，正是 auto 选的值），省下的显存给专家缓存：5,320 / 3,275 → 6,175 / 4,265 槽 | 真实文本：读 2K +8%、续读 +1.5~2%、解码 +1.4~3%；4K–32K 读持平；标准基准 12/12 |
+| 10-30 12:1x | 生产升 0.2.8（strata-028f-9f207cc2，E620）：合并 v0.2.8 再挑 #3821；为修复而升：停放的 --batch 槽保留共享前缀、工具调用容错、新引擎等旧引擎还内存 | 读 prompt −0.3~1.5%、解码持平（都在 3% 门槛内），12 题门 12/12 |
+| 10-30 22:5x | GDN 组 + DEQUANT_WIDE 上生产（E621–E625）：先量瓶颈：GDN 递推占读 prompt 6.6%；K-quant 稠密权重先解压成 FP16，Q6_K / IQ4_XS 比 Q4_K 慢 20–30×，占 2K 块的 ~11% | GDN 组（quad2c 两步式，寄存器 196 → 142）：读 +2.3~3.8%，逐位相同；宽解压：≤1.6K +8~12%、4K–16K +4~5%、32K +3%，逐位相同；解码不变 |
+| 10-31 03:4x | 未采用：0.2.8 的新开关（E627/E628）：读码 161 个，7 个对 HIP 生效，逐个确定性 A/B | MERGE_V2 + FUSE_HITS + IQ_STAGE_TABLES + PLE_COMPACT/COPY_STREAM 合起来解码 +1.0~1.2%，但门 3/3 次停转，不上；SCORES_HALVE（改 32K 文本、4K 读 −3.8%）、EXPDEC（−1~3%）、GU_SWIGLU 更慢 |
+| 10-31 16:0x | 生产升 0.2.9（strata-029f-05d98279，E631）：合并 v0.2.9；它的新默认 STRATA_GR_R2 给 5–8 token 验证窗口换精确 T 内核 | 对 0.2.8 文本逐字相同、速度 ±0.3%；GR_R2 在本机惰性；UD-Q4 槽换 029kq 并用自己的设置（分点 24、--prefill-pipe 3450，E626）：解码 +15~18% |
+| 10-31 16:1x | tool_calls 之后的偶发停转（上游 #267，E632/E633）：协议请求是流式 + 采样 + 思考；贪心非流式重放复现不出 | 跟在 tool_calls 回答后的请求约 1/500 停在 pipelined decode: verify；0.2.8 / 0.2.9 都有，未解决；HSA_ENABLE_SDMA=0（治好了 DeepSeek 槽）在这里无效，还让读 prompt 慢 28–32% |
+| 11-01 00:5x | 未采用：短 prompt 等 PCIe 重测（E634/E636，推翻 E482）：E482 说 <2K 的 prompt 有 43–54% 时间在等 PCIe；想把拷贝合并 | 0.2.9 上 100–2K 只等 6–13%（4K 0.8%），合并拷贝省 ≤1%；rocprofv3：收集内核只占 4.4–5.6%；引擎自计时的“19–23%”大多是它自己的事件撑出来的空档 |
+| 11-01 12:5x | 未采用：reasoning_loop_recovery: recover（E640/E641）：一条 41K token 的真实请求在 abl 模型贪心 + xhigh 下 3/3 打转 | 12.8K token 处截住，换低 effort 续写完成（重读 +31 s）：止住打转，不治答错；正常模型同一请求不打转（3/3），未上生产 |
+| 11-02 03:3x | 内核 7.0.0-38 → 7.0.0-42（E642）：三个稳定版汇总，含 amdgpu / kfd 修复；升级后验证 | 逐 token 相同、草稿接受相同、读 +3~5%（部分是刚开机）、解码持平，门 12/12；-42 不再加载 simpledrm，GPU 从 card1/2 变 card0/1：按 cardN 找卡的脚本要改按 PCI 地址 |
+| 11-02 03:5x | 槽复制三开关上生产（E637–E639）：两路并发时，插进来的请求要复制槽状态 135–550 ms，长请求的解码被拖住 | SLOT_COPY_DIRECT + BATCHSYNC + SLOT_CKPT_MOVE：复制 → 4–88 ms；64K 长请求被插队时解码 +28%（53.1 → 67.9）；单请求不走这条路径；门 12/12，640 条并发重放 0 停转 |

diff --git a/docs/linux-dual-6900xt.md b/docs/linux-dual-6900xt.md
@@ -6,10 +6,10 @@ Tuning log for **Qwen3.8-Flash-Next (GSQ-RCO IQ3_S)** on a home box with **2x AM
 
 <picture>
   <source media="(prefers-color-scheme: dark)" srcset="speed-chart-en-dark.png">
-  <img alt="Prompt and decode speed, step by step, llama.cpp 10-02 to Strata 0.2.3 + patches 10-23" src="speed-chart-en-light.png" width="100%">
+  <img alt="Prompt and decode speed, step by step, llama.cpp 10-02 to Strata 0.2.8 + GDN group / wide dequant 10-30" src="speed-chart-en-light.png" width="100%">
 </picture>
 
-*Prompt tok/s at 4K, 32K–37K and 128K (left axis) and decode tok/s (right axis) at each production state. Points come from different experiments under slightly different conditions (the 4K points of the first two steps are 5K prompts; the last two points are E504 and E533, the E415 load on the 10-20 and 10-23 productions; the notes under the chart on the interactive page list the rest); a dashed segment bridges a step where that metric was not measured.*
+*Prompt tok/s at 4K, 32K–37K and 128K (left axis) and decode tok/s (right axis) at each production state. Points come from different experiments under slightly different conditions (the 4K points of the first two steps are 5K prompts; from 10-20 the points are E504 / E533 / E587 / E596 / E620 / E623, the same load on each production, parallel 1, no encoder; the last two decode points, 84 / 86, are run-to-run swing at pipeline-windows 2 - real-text decode is 79-80 on every version; 0.2.9 is output-identical to 0.2.8 and ±0.3% (E631), so it has no point of its own; the notes under the chart on the interactive page list the rest); a dashed segment bridges a step where that metric was not measured.*
 
 ## Where it stands
 

diff --git a/docs/linux-dual-6900xt.zh-CN.md b/docs/linux-dual-6900xt.zh-CN.md
@@ -6,10 +6,10 @@
 
 <picture>
   <source media="(prefers-color-scheme: dark)" srcset="speed-chart-dark.png">
-  <img alt="读 prompt 与解码速度逐步变化：llama.cpp 10-02 到 Strata 0.2.3 + 补丁 10-23" src="speed-chart-light.png" width="100%">
+  <img alt="读 prompt 与解码速度逐步变化：llama.cpp 10-02 到 Strata 0.2.8 + GDN 组 / 宽解压 10-30" src="speed-chart-light.png" width="100%">
 </picture>
 
-*各生产状态的读 prompt（4K、32K–37K、128K，左轴）和解码（右轴）tok/s。各点来自不同实验、条件不完全相同（前两步的 4K 点是 5K prompt；最后两点是 E504 和 E533，即 10-20 和 10-23 的生产跑 E415 同款负载；其余见交互页图下说明）；虚线段表示那一步没测这个指标。*
+*各生产状态的读 prompt（4K、32K–37K、128K，左轴）和解码（右轴）tok/s。各点来自不同实验、条件不完全相同（前两步的 4K 点是 5K prompt；10-20 起各点是 E504 / E533 / E587 / E596 / E620 / E623，各版生产配置跑同一负载，parallel 1，无图片编码器；最后两点的解码 84 / 86 是 pipeline-windows 2 下的跨运行波动，真实文本解码各版都是 79–80；0.2.9 与 0.2.8 逐字相同、±0.3%（E631），不单列一点；其余见交互页图下说明）；虚线段表示那一步没测这个指标。*
 
 ## 结论（先看这里）
 

diff --git a/data/README.md b/data/README.md
@@ -6,7 +6,7 @@ Text and data: CC BY-NC 4.0.
 
 | File | Rows | Columns | Chart / source |
 |---|---|---|---|
-| `linux-speed-steps.csv` | each production state of the two-card Linux box, llama.cpp 10-02 → Strata 0.2.3 + patches 10-23 | `step`, `date` (MM-DD, 2026), prompt tok/s at 4K, at 32K–37K, at 128K, decode tok/s | `docs/speed-chart-*`; conditions differ between points (see the note under the chart in `index.html`) |
+| `linux-speed-steps.csv` | each production state of the two-card Linux box, llama.cpp 10-02 → Strata 0.2.8 + GDN group / wide dequant 10-30 | `step`, `date` (MM-DD, 2026), prompt tok/s at 4K, at 32K–37K, at 128K, decode tok/s | `docs/speed-chart-*`; conditions differ between points (see the note under the chart in `index.html`) |
 | `linux-breakdown-prompt-e505.csv` | 4K / 32K / 128K × stock (0.2.0-beta) / tuned (10-20 production) | ms per 1,000 prompt tokens per phase, total, tok/s | `docs/breakdown-prompt-*`; phases are estimates from the engine's timing switches, totals measured (E505) |
 | `linux-breakdown-decode-e505.csv` | the same | ms per decoded token per phase, total, tok/s | `docs/breakdown-decode-*` (E505) |
 | `linux-modes-0.1.41-32k.csv` | stock / two switches / PRs / E387 config × one card / expert helper / layer split | prompt and decode tok/s at 32K | `docs/modes-chart-*` (E388 / E388a, Strata 0.1.41) |

diff --git a/README.md b/README.md
@@ -21,7 +21,7 @@ Measured tuning of **Qwen3.8-Flash-Next (IQ3_S)** on AMD RX 6900 XT (RDNA2, gfx1
 
 ## More
 
-- [docs/timeline.md](docs/timeline.md) — every step from 09-21 to 10-24 with its measured effect (10-25 → 11-02 is in the Linux doc).
+- [docs/timeline.md](docs/timeline.md) — every step from 09-21 to 11-02 with its measured effect.
 - [docs/mechanisms.md](docs/mechanisms.md) — what limits speed on these cards, and the mistakes made on the way.
 - [data/](data/README.md) — the numbers behind every chart as CSV.
 - [bench/](bench/) — the A/B scripts (`run_ab.sh`, `benchmark.py`, `ab_compare.py`, `monitor_amd.py`) and raw results per experiment (`bench/results/eNNN/`).

diff --git a/README.zh-CN.md b/README.zh-CN.md
@@ -21,7 +21,7 @@
 
 ## 其他
 
-- [docs/timeline.zh-CN.md](docs/timeline.zh-CN.md)：09-21 到 10-24 的每一步和实测效果（10-25 → 11-02 写在 Linux 文档里）。
+- [docs/timeline.zh-CN.md](docs/timeline.zh-CN.md)：09-21 到 11-02 的每一步和实测效果。
 - [docs/mechanisms.zh-CN.md](docs/mechanisms.zh-CN.md)：这几张卡上速度卡在哪里，以及我在这上面犯过的错。
 - [data/](data/README.md)：每张图背后的数字（CSV）。
 - [bench/](bench/)：A/B 脚本（`run_ab.sh`、`benchmark.py`、`ab_compare.py`、`monitor_amd.py`），以及按实验编号存放的原始结果（`bench/results/eNNN/`）。
